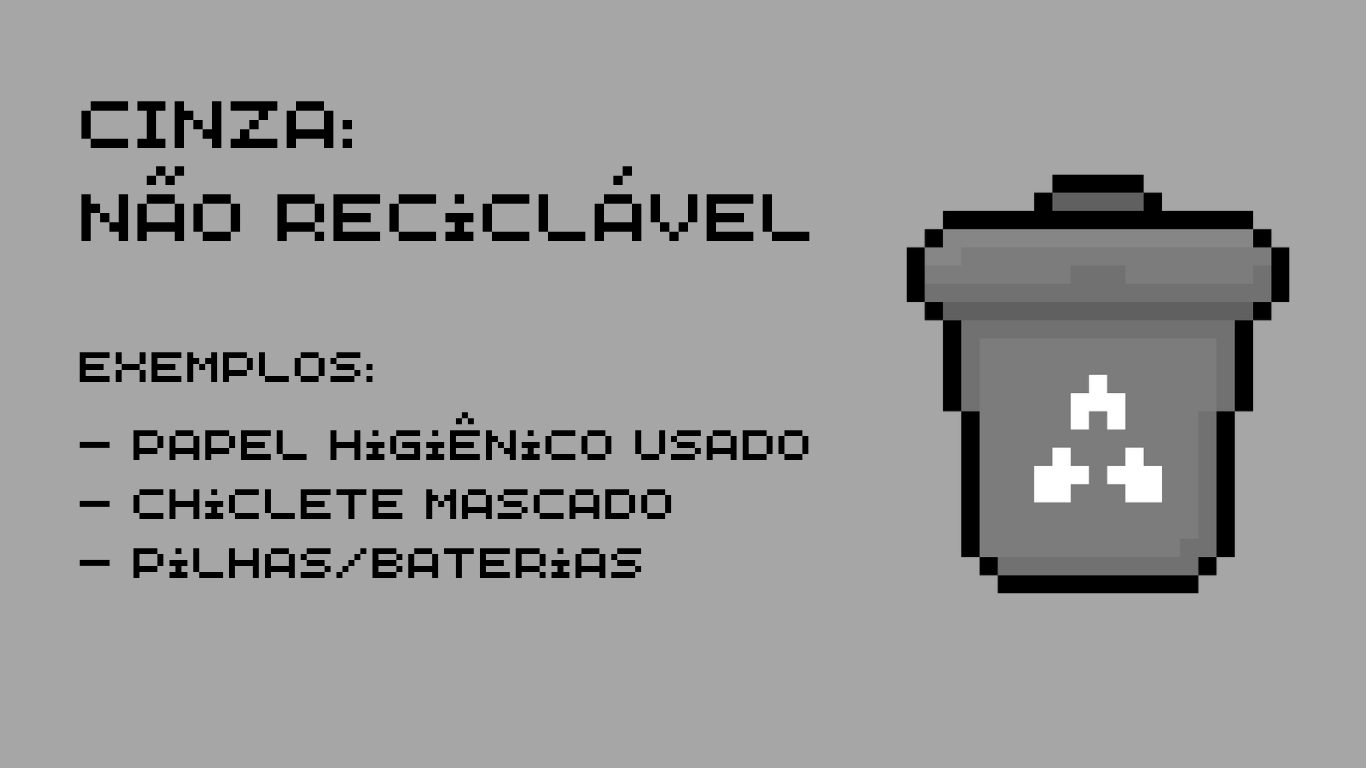
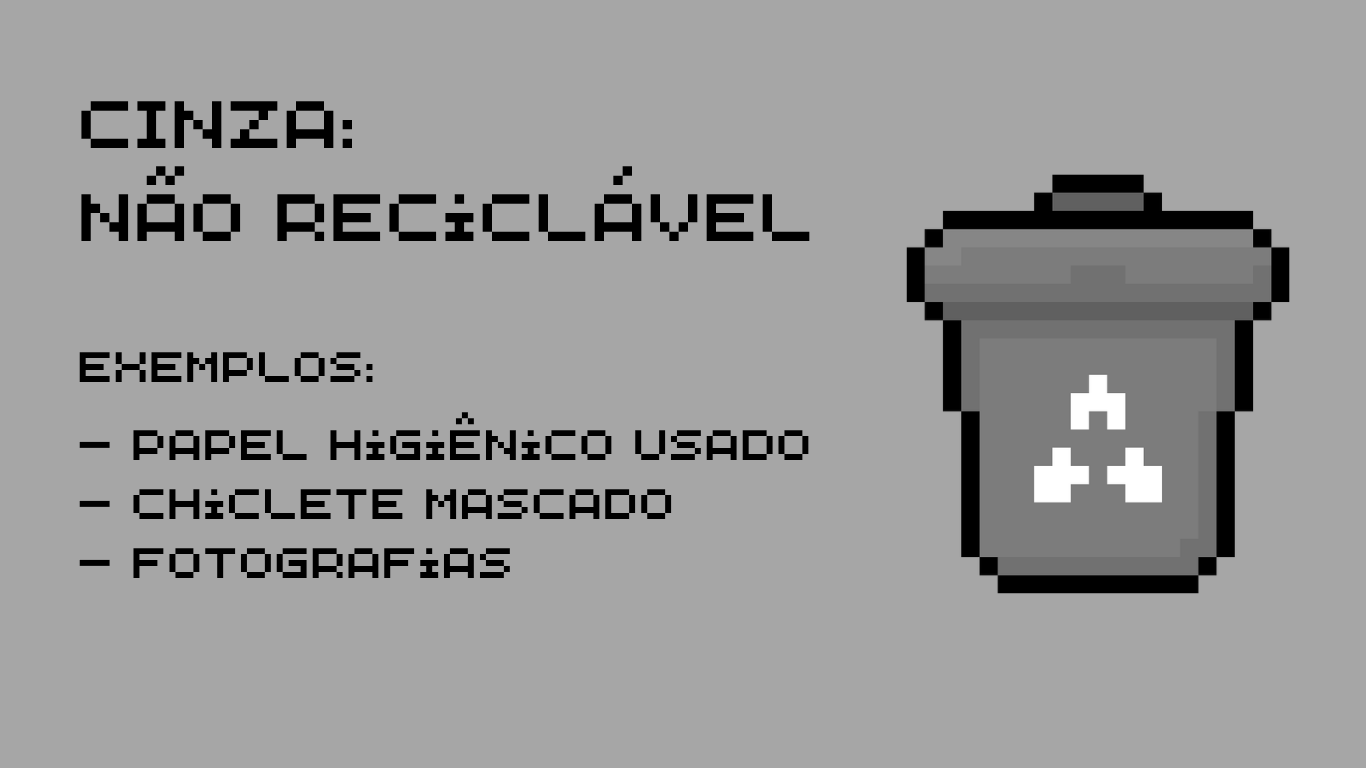
ajeitando opcoes

Changed region(s): [[0.0922, 0.6875, 0.4919, 0.75]]

diff --git a/js/script.js b/js/script.js
@@ -266,29 +266,30 @@ function DrawMenu()
 //PAUSE ---------------------------------------------------------------------------------------------------------->
 function PreloadPause()
 {
-
+    jogo.config.imgMusica = loadImage("assets/imagens/pause/musica_icone.png");
+    jogo.config.imgSom = loadImage("assets/imagens/pause/som_icone.png");
 }
 
 function SetupPause()
 {
     pause.background = loadImage("assets/imagens/pause/background2.png");
-    pause.width = 500 * jogo.escala
-    pause.height = 600 * jogo.escala
-    pause.x = (width / 2) - (pause.width / 2)
-    pause.y = (height / 2) - (pause.height / 2)
+    pause.width = 500 * jogo.escala;
+    pause.height = 600 * jogo.escala;
+    pause.x = (width / 2) - (pause.width / 2);
+    pause.y = (height / 2) - (pause.height / 2);
 
     pause.btnImg = loadImage("assets/imagens/pause/btnImg.png");
-    pause.btnWidth = 150 * jogo.escala
-    pause.btnHeight = 50 * jogo.escala
+    pause.btnWidth = 150 * jogo.escala;
+    pause.btnHeight = 50 * jogo.escala;
 
-    pause.txtTamanho = 20 * jogo.escala
-    pause.txtFonte = loadFont("assets/fonts/pixel_operator/PixelOperatorMono-Bold.ttf")
+    pause.txtTamanho = 20 * jogo.escala;
+    pause.txtFonte = loadFont("assets/fonts/pixel_operator/PixelOperatorMono-Bold.ttf");
 
-    pause.titulo.tamanho = 50 * jogo.escala
-    pause.titulo.x = pause.x + (pause.width / 6)
-    pause.titulo.y = pause.y + (pause.height / 5)
+    pause.titulo.tamanho = 50 * jogo.escala;
+    pause.titulo.x = pause.x + (pause.width / 6);
+    pause.titulo.y = pause.y + (pause.height / 5);
 
-    pause.botaoXCentralizado = pause.x + ((pause.width / 2) - ((125 * jogo.escala) / 2))
+    pause.botaoXCentralizado = pause.x + ((pause.width / 2) - ((125 * jogo.escala) / 2));
     // pause.x -> posição inicial, borda da esquerda do menu
     // (pause.width / 2) -> Centralizado no meio do menu, porém a centralização ocorre a partir do ponto esquerdo superior do botão
     // ((125 * jogo.escala) / 2)) -> tamanho do botão dividido por 2 para finalmente achar o meio certinho do menu alinhado com o botão
@@ -296,116 +297,118 @@ function SetupPause()
     // let textoTamanho = 20 * jogo.escala
     // let textoFonte = loadFont("assets/fonts/pixel_operator/PixelOperatorMono-Bold.ttf")
 
-    pause.botaoContinuar.width = pause.btnWidth
-    pause.botaoContinuar.height = pause.btnHeight
-    pause.botaoContinuar.x = pause.x + ((pause.width / 2) - (pause.btnWidth / 2))
-    pause.botaoContinuar.y = pause.y + ((pause.height / 2) - (75 * jogo.escala))
-    pause.botaoContinuar.texto_x = pause.botaoContinuar.x + (pause.btnWidth / 5)
-    pause.botaoContinuar.texto_y = pause.botaoContinuar.y + (pause.btnHeight / 1.75)
+    pause.botaoContinuar.width = pause.btnWidth;
+    pause.botaoContinuar.height = pause.btnHeight;
+    pause.botaoContinuar.x = pause.x + ((pause.width / 2) - (pause.btnWidth / 2));
+    pause.botaoContinuar.y = pause.y + ((pause.height / 2) - (75 * jogo.escala));
+    pause.botaoContinuar.texto_x = pause.botaoContinuar.x + (pause.btnWidth / 5);
+    pause.botaoContinuar.texto_y = pause.botaoContinuar.y + (pause.btnHeight / 1.75);
 
-    pause.botaoReiniciar.width = pause.btnWidth
-    pause.botaoReiniciar.height = pause.btnHeight
-    pause.botaoReiniciar.x = pause.x + ((pause.width / 2) - (pause.btnWidth / 2))
-    pause.botaoReiniciar.y = pause.y + ((pause.height / 2))
-    pause.botaoReiniciar.texto_x = pause.botaoReiniciar.x + (pause.btnWidth / 5)
-    pause.botaoReiniciar.texto_y = pause.botaoReiniciar.y + (pause.btnHeight / 1.75)
+    pause.botaoReiniciar.width = pause.btnWidth;
+    pause.botaoReiniciar.height = pause.btnHeight;
+    pause.botaoReiniciar.x = pause.x + ((pause.width / 2) - (pause.btnWidth / 2));
+    pause.botaoReiniciar.y = pause.y + ((pause.height / 2));
+    pause.botaoReiniciar.texto_x = pause.botaoReiniciar.x + (pause.btnWidth / 5);
+    pause.botaoReiniciar.texto_y = pause.botaoReiniciar.y + (pause.btnHeight / 1.75);
 
-    pause.botaoOpcoes.width = pause.btnWidth
-    pause.botaoOpcoes.height = pause.btnHeight
-    pause.botaoOpcoes.x = pause.x + ((pause.width / 2) - (pause.btnWidth / 2))
-    pause.botaoOpcoes.y = pause.y + ((pause.height / 2) + (75 * jogo.escala))
-    pause.botaoOpcoes.texto_x = pause.botaoOpcoes.x + (pause.btnWidth / 3.5)
-    pause.botaoOpcoes.texto_y = pause.botaoOpcoes.y + (pause.btnHeight / 1.75)
+    pause.botaoOpcoes.width = pause.btnWidth;
+    pause.botaoOpcoes.height = pause.btnHeight;
+    pause.botaoOpcoes.x = pause.x + ((pause.width / 2) - (pause.btnWidth / 2));
+    pause.botaoOpcoes.y = pause.y + ((pause.height / 2) + (75 * jogo.escala));
+    pause.botaoOpcoes.texto_x = pause.botaoOpcoes.x + (pause.btnWidth / 3.5);
+    pause.botaoOpcoes.texto_y = pause.botaoOpcoes.y + (pause.btnHeight / 1.75);
     
-    pause.botaoSair.width = pause.btnWidth
-    pause.botaoSair.height = pause.btnHeight
-    pause.botaoSair.x = pause.x + ((pause.width / 2) - (pause.btnWidth / 2))
-    pause.botaoSair.y = pause.y + ((pause.height / 2) + (150 * jogo.escala))
-    pause.botaoSair.texto_x = pause.botaoSair.x + (pause.btnWidth / 2.75)
-    pause.botaoSair.texto_y = pause.botaoSair.y + (pause.btnHeight / 1.75)
+    pause.botaoSair.width = pause.btnWidth;
+    pause.botaoSair.height = pause.btnHeight;
+    pause.botaoSair.x = pause.x + ((pause.width / 2) - (pause.btnWidth / 2));
+    pause.botaoSair.y = pause.y + ((pause.height / 2) + (150 * jogo.escala));
+    pause.botaoSair.texto_x = pause.botaoSair.x + (pause.btnWidth / 2.75);
+    pause.botaoSair.texto_y = pause.botaoSair.y + (pause.btnHeight / 1.75);
 
     //Menu Opções
 
     
-    pause.opcoes.musica.slider_x = pause.x + (pause.width / 4) + (60 * jogo.escala)
-    pause.opcoes.musica.slider_y = pause.y + (pause.height / 2) - (100 * jogo.escala)
-    pause.opcoes.musica.slider = createSlider(0, 100, jogo.config.musicaVolume) //valor minimo, valor máximo, valor inicial
-    pause.opcoes.musica.slider.size(200 * jogo.escala)
-    pause.opcoes.musica.slider.position(pause.opcoes.musica.slider_x, pause.opcoes.musica.slider_y)
+    pause.opcoes.musica.slider_x = pause.x + (pause.width / 4) + (60 * jogo.escala);
+    pause.opcoes.musica.slider_y = pause.y + (pause.height / 2) - (100 * jogo.escala);
+    pause.opcoes.musica.slider = createSlider(0, 100, jogo.config.musicaVolume); //valor minimo, valor máximo, valor inicial
+    pause.opcoes.musica.slider.size(200 * jogo.escala);
+    pause.opcoes.musica.slider.position(pause.opcoes.musica.slider_x, pause.opcoes.musica.slider_y);
     pause.opcoes.musica.slider.addClass("slider-volume");
     pause.opcoes.musica.slider.hide()
-    pause.opcoes.musica.texto_x = pause.x + (pause.width / 4) - (20 * jogo.escala)
-    pause.opcoes.musica.texto_y = pause.y + (pause.height / 2) - (80 * jogo.escala)
+    pause.opcoes.musica.texto_x = pause.x + (pause.width / 4) - (20 * jogo.escala);
+    pause.opcoes.musica.texto_y = pause.y + (pause.height / 2) - (80 * jogo.escala);
 
-    pause.opcoes.som.slider_x = pause.x + (pause.width / 4)  + (60 * jogo.escala)
-    pause.opcoes.som.slider_y = pause.y + (pause.height / 2)
-    pause.opcoes.som.slider = createSlider(0, 100, jogo.config.somVolume) //valor minimo, valor máximo, valor inicial
-    pause.opcoes.som.slider.size(200 * jogo.escala)
-    pause.opcoes.som.slider.position(pause.opcoes.som.slider_x, pause.opcoes.som.slider_y)
-    pause.opcoes.som.slider.addClass("slider-volume");
-    pause.opcoes.som.slider.hide()
-    pause.opcoes.som.texto_x = pause.x + (pause.width / 4) - (20 * jogo.escala)
-    pause.opcoes.som.texto_y = pause.y + (pause.height / 2) + (20 * jogo.escala)
+    pause.opcoes.som.slider_x = pause.x + (pause.width / 4)  + (60 * jogo.escala);
+    pause.opcoes.som.slider_y = pause.y + (pause.height / 2);
+    pause.opcoes.som.slider = createSlider(0, 100, jogo.config.somVolume); //valor minimo, valor máximo, valor inicial
+    pause.opcoes.som.slider.size(200 * jogo.escala);
+    pause.opcoes.som.slider.position(pause.opcoes.som.slider_x, pause.opcoes.som.slider_y);
+    pause.opcoes.som.slider.addClass("slider-volume");;
+    pause.opcoes.som.slider.hide();
+    pause.opcoes.som.texto_x = pause.x + (pause.width / 4) - (20 * jogo.escala);
+    pause.opcoes.som.texto_y = pause.y + (pause.height / 2) + (20 * jogo.escala);
 
-    pause.opcoes.botaoRanking.width = pause.btnWidth / 1.4
-    pause.opcoes.botaoRanking.height = pause.btnHeight
-    pause.opcoes.botaoRanking.x = pause.x + (pause.width / 4)
-    pause.opcoes.botaoRanking.y = pause.y + (pause.height / 2) + (100 * jogo.escala)
-    pause.opcoes.botaoRanking.texto_x = pause.opcoes.botaoRanking.x + (pause.btnWidth / 3.2)
-    pause.opcoes.botaoRanking.texto_y = pause.opcoes.botaoRanking.y + (pause.btnHeight / 1.75)
+    pause.opcoes.botaoRanking.width = pause.btnWidth / 1.4;
+    pause.opcoes.botaoRanking.height = pause.btnHeight;
+    pause.opcoes.botaoRanking.x = pause.x + (pause.width / 4);
+    pause.opcoes.botaoRanking.y = pause.y + (pause.height / 2) + (100 * jogo.escala);
+    pause.opcoes.botaoRanking.texto_x = pause.opcoes.botaoRanking.x + (pause.btnWidth / 3.2);
+    pause.opcoes.botaoRanking.texto_y = pause.opcoes.botaoRanking.y + (pause.btnHeight / 1.75);
 
-    pause.opcoes.botaoSair.width = pause.btnWidth / 1.4
-    pause.opcoes.botaoSair.height = pause.btnHeight
-    pause.opcoes.botaoSair.x = pause.x + (pause.width / 4) + (150 * jogo.escala)
-    pause.opcoes.botaoSair.y = pause.y + (pause.height / 2) + (100 * jogo.escala)
-    pause.opcoes.botaoSair.texto_x = pause.opcoes.botaoRanking.x + (pause.btnWidth / 3.2) + (150 * jogo.escala)
-    pause.opcoes.botaoSair.texto_y = pause.opcoes.botaoRanking.y + (pause.btnHeight / 1.75)
+    pause.opcoes.botaoSair.width = pause.btnWidth / 1.4;
+    pause.opcoes.botaoSair.height = pause.btnHeight;
+    pause.opcoes.botaoSair.x = pause.x + (pause.width / 4) + (150 * jogo.escala);
+    pause.opcoes.botaoSair.y = pause.y + (pause.height / 2) + (100 * jogo.escala);
+    pause.opcoes.botaoSair.texto_x = pause.opcoes.botaoRanking.x + (pause.btnWidth / 3.2) + (150 * jogo.escala);
+    pause.opcoes.botaoSair.texto_y = pause.opcoes.botaoRanking.y + (pause.btnHeight / 1.75);
 }
 
 function DrawPause()
 {    
-    fill(0,0,0)
-    textFont(pause.txtFonte)
-    image(pause.background, pause.x, pause.y, pause.width, pause.height)
+    fill(0,0,0);
+    textFont(pause.txtFonte);
+    image(pause.background, pause.x, pause.y, pause.width, pause.height);
 
-    textSize(pause.titulo.tamanho)
-    text("CASTOR'S GAME", pause.titulo.x, pause.titulo.y)
+    textSize(pause.titulo.tamanho);
+    text("CASTOR'S GAME", pause.titulo.x + 10 *jogo.escala, pause.titulo.y + 20 *jogo.escala);
     
-    textSize(pause.txtTamanho)
+    textSize(pause.txtTamanho);
 
     if(!pause.menuOpcoesON){
-        image(pause.btnImg, pause.botaoContinuar.x, pause.botaoContinuar.y, pause.btnWidth, pause.btnHeight)
-        text("Continuar", pause.botaoContinuar.texto_x, pause.botaoContinuar.texto_y)
+        image(pause.btnImg, pause.botaoContinuar.x, pause.botaoContinuar.y, pause.btnWidth, pause.btnHeight);
+        text("Continuar", pause.botaoContinuar.texto_x, pause.botaoContinuar.texto_y);
 
-        image(pause.btnImg, pause.botaoReiniciar.x, pause.botaoReiniciar.y, pause.btnWidth, pause.btnHeight)
-        text("Reiniciar", pause.botaoReiniciar.texto_x, pause.botaoReiniciar.texto_y)
+        image(pause.btnImg, pause.botaoReiniciar.x, pause.botaoReiniciar.y, pause.btnWidth, pause.btnHeight);
+        text("Reiniciar", pause.botaoReiniciar.texto_x, pause.botaoReiniciar.texto_y);
 
-        image(pause.btnImg, pause.botaoOpcoes.x, pause.botaoOpcoes.y, pause.btnWidth, pause.btnHeight)
-        text("Opções", pause.botaoOpcoes.texto_x, pause.botaoOpcoes.texto_y)
+        image(pause.btnImg, pause.botaoOpcoes.x, pause.botaoOpcoes.y, pause.btnWidth, pause.btnHeight);
+        text("Opções", pause.botaoOpcoes.texto_x, pause.botaoOpcoes.texto_y);
 
-        image(pause.btnImg, pause.botaoSair.x, pause.botaoSair.y, pause.btnWidth, pause.btnHeight)
-        text("Sair", pause.botaoSair.texto_x, pause.botaoSair.texto_y)
+        image(pause.btnImg, pause.botaoSair.x, pause.botaoSair.y, pause.btnWidth, pause.btnHeight);
+        text("Sair", pause.botaoSair.texto_x, pause.botaoSair.texto_y);
     }
     else {
 
-        pause.opcoes.musica.slider.show()
-        pause.opcoes.som.slider.show()
+        pause.opcoes.musica.slider.show();
+        pause.opcoes.som.slider.show();
 
-        textFont(pause.txtFonte)
-        textSize(pause.txtTamanho * 1.5)
+        textFont(pause.txtFonte);
+        textSize(pause.txtTamanho * 1.5);
 
-        text("M:" + jogo.config.musicaVolume, pause.opcoes.musica.texto_x, pause.opcoes.musica.texto_y)
+        image(jogo.config.imgMusica, pause.opcoes.musica.texto_x - 25 *jogo.escala, pause.opcoes.musica.texto_y - 27 *jogo.escala, 40 *jogo.escala, 40 *jogo.escala);
+        text("  " + jogo.config.musicaVolume, pause.opcoes.musica.texto_x, pause.opcoes.musica.texto_y);
 
-        text("SFX:" + jogo.config.somVolume, pause.opcoes.som.texto_x, pause.opcoes.som.texto_y)
+        image(jogo.config.imgSom, pause.opcoes.som.texto_x - 25 *jogo.escala, pause.opcoes.som.texto_y - 27 *jogo.escala, 40 *jogo.escala, 40 *jogo.escala);
+        text("  " + jogo.config.somVolume, pause.opcoes.som.texto_x, pause.opcoes.som.texto_y);
 
-        image(pause.btnImg, pause.opcoes.botaoRanking.x, pause.opcoes.botaoRanking.y, pause.opcoes.botaoRanking.width, pause.opcoes.botaoRanking.height)
-        text("Placar", pause.opcoes.botaoRanking.texto_x, pause.opcoes.botaoRanking.texto_y)
+        image(pause.btnImg, pause.opcoes.botaoRanking.x, pause.opcoes.botaoRanking.y, pause.opcoes.botaoRanking.width, pause.opcoes.botaoRanking.height);
+        text("Placar", pause.opcoes.botaoRanking.texto_x - (37 * jogo.escala), pause.opcoes.botaoRanking.texto_y + (5 * jogo.escala));
 
-        image(pause.btnImg, pause.opcoes.botaoSair.x, pause.opcoes.botaoSair.y, pause.opcoes.botaoSair.width, pause.opcoes.botaoSair.height)
-        text("Sair", pause.opcoes.botaoSair.texto_x, pause.opcoes.botaoSair.texto_y)
+        image(pause.btnImg, pause.opcoes.botaoSair.x, pause.opcoes.botaoSair.y, pause.opcoes.botaoSair.width, pause.opcoes.botaoSair.height);
+        text("Voltar", pause.opcoes.botaoSair.texto_x - (37 * jogo.escala), pause.opcoes.botaoSair.texto_y + (5 * jogo.escala));
 
-        jogo.config.musicaVolume = pause.opcoes.musica.slider.value()
-        jogo.config.somVolume = pause.opcoes.som.slider.value()
+        jogo.config.musicaVolume = pause.opcoes.musica.slider.value();
+        jogo.config.somVolume = pause.opcoes.som.slider.value();
     }
 
     
@@ -593,10 +596,6 @@ function PreloadFase1()
 
 function SetupFase1()
 {
-
-    jogo.player.x = jogo.xFinalMapa / 2;
-    jogo.player.y = jogo.yFinalMapa / 2;
-
     fase1.lastItemPego = Lixo.novo(null, null, 0, 0, 0, 0, null, 0);
 
     fase1.lixeiras = [

diff --git a/js/globalVars.js b/js/globalVars.js
@@ -12,6 +12,8 @@ const jogo = {
         musicaVolume: 25,
         somON: true,
         somVolume: 25,
+        imgSom: null,
+        imgMusica: null,
     },
 
     //PLAYER ---------------------------------------------------------------------------------------------------------------->

diff --git a/pages/login.php b/pages/login.php
@@ -216,7 +216,7 @@ if ($_SERVER['REQUEST_METHOD'] === 'POST') {
         <div class="prego prego3"></div>
         <div class="prego prego4"></div>
 
-        <h2>Ranking</h2>
+        <h2>Top 5</h2>
 
         <?php if(!empty($leaderboard[0])): ?>
             <div class="linha primeiro">
